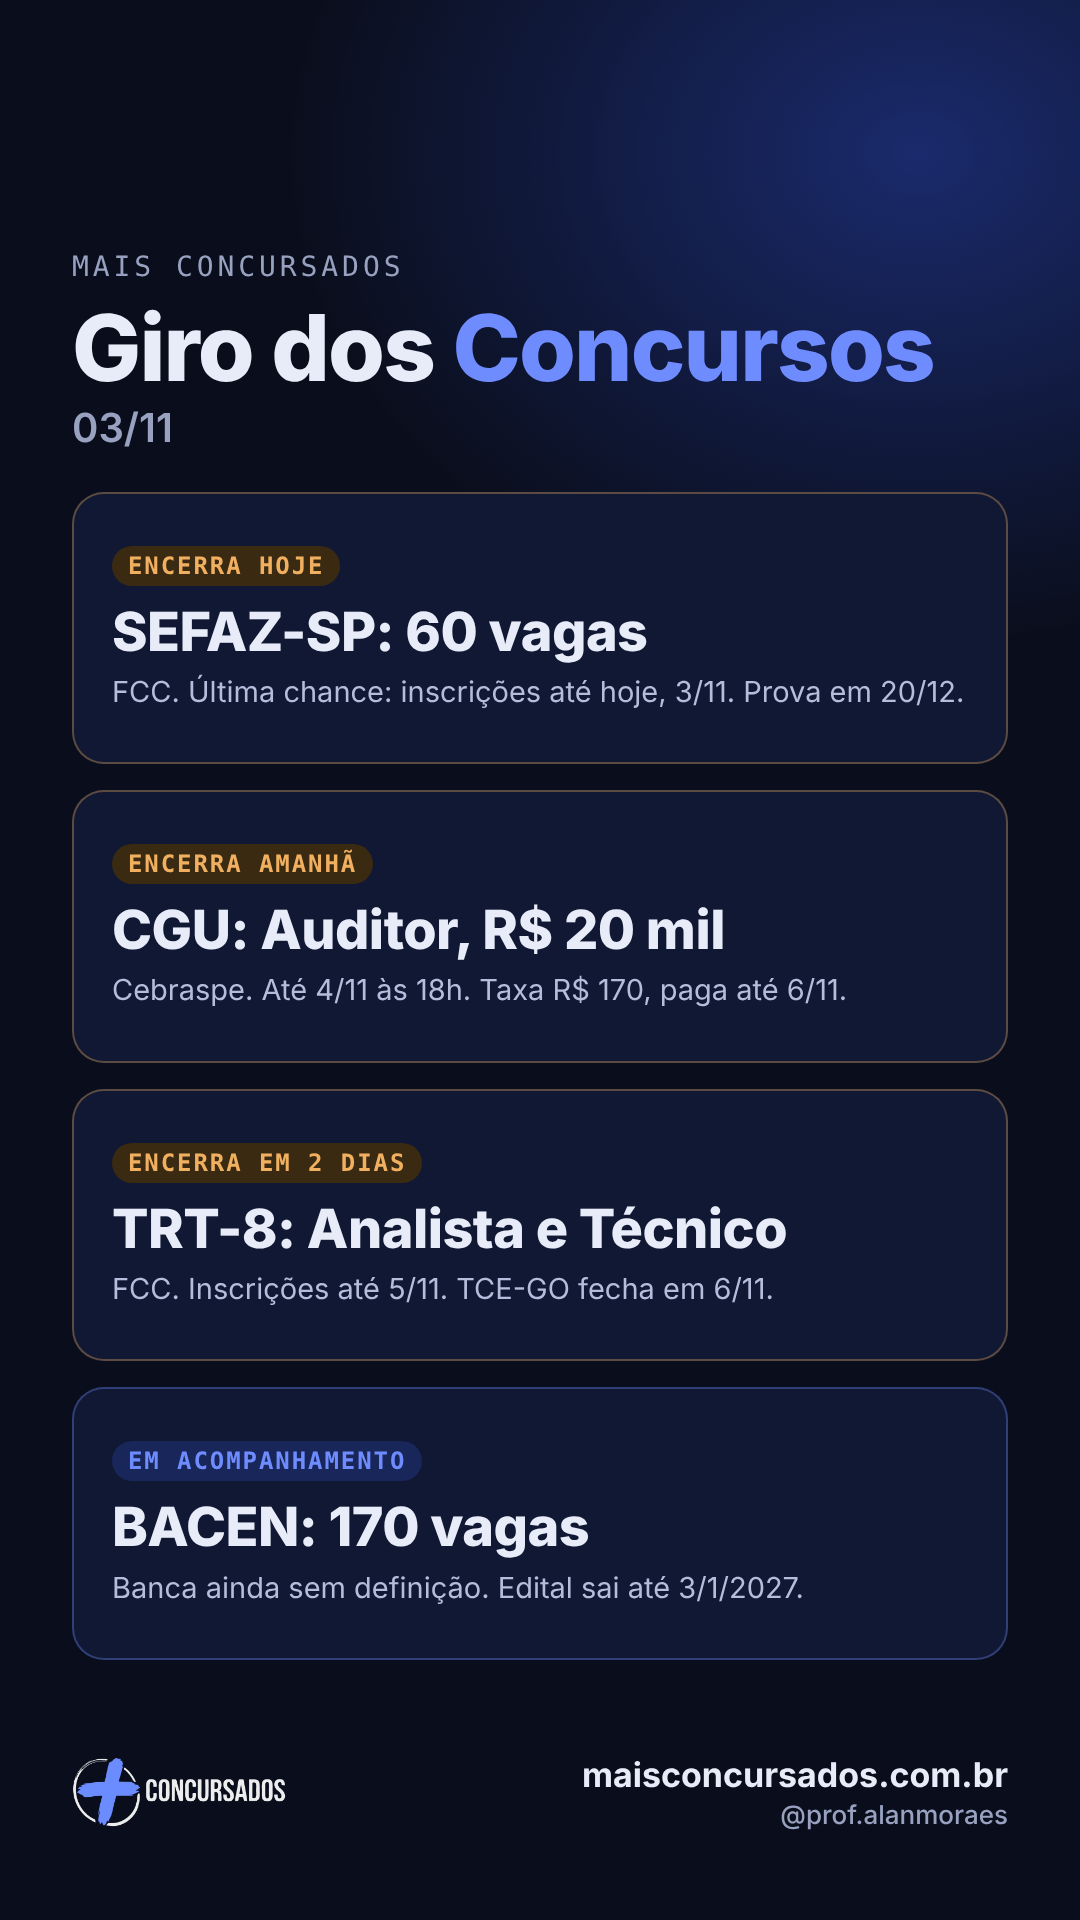
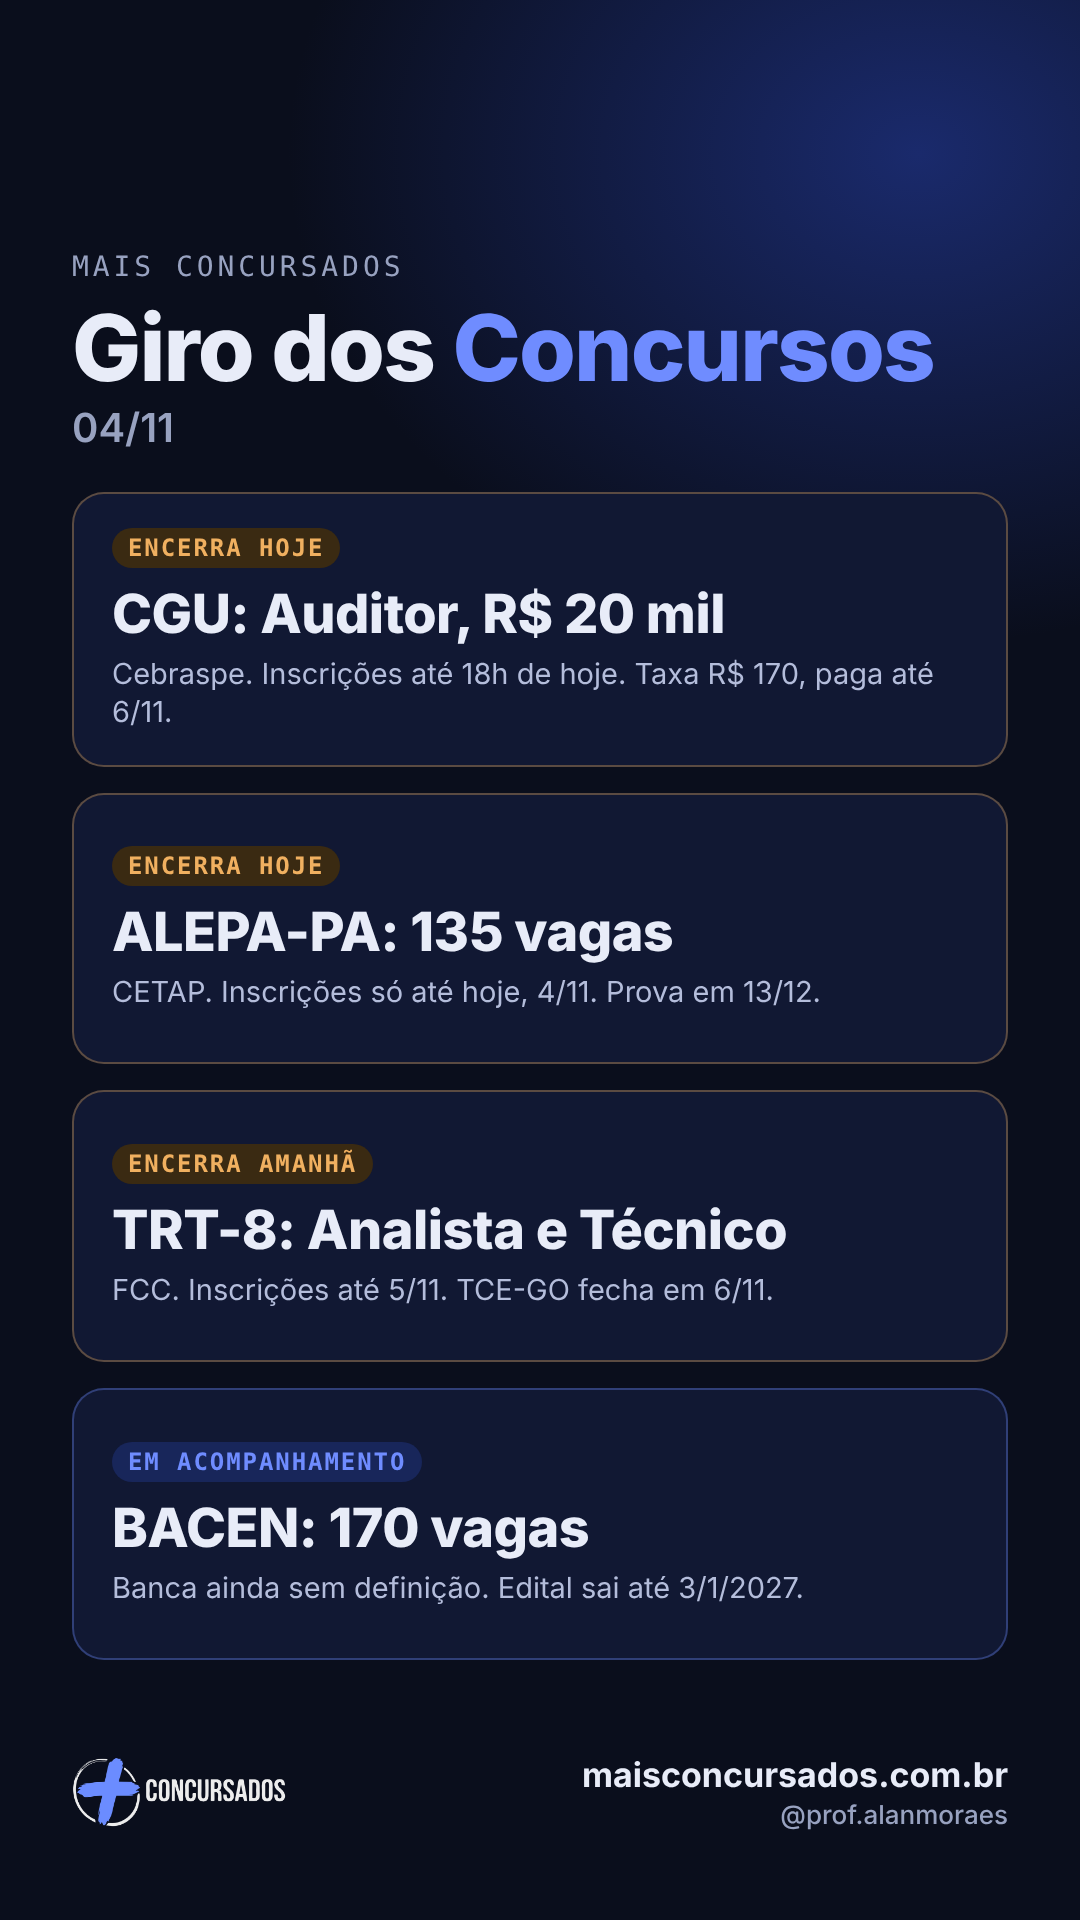
Giro dos Concursos 04/11: ALEPA encerra hoje, SEFAZ-SP encerrado e arte de stories
Claude-Session: https://claude.ai/code/session_01A4P6MbHdyeBPBzuRpzLNG9

diff --git a/site/editais.html b/site/editais.html
@@ -48,7 +48,7 @@
 </main>
 <footer><div class="wrap"><div><h4>Mais Concursados</h4><p>Editais de concursos de todas as áreas, com destaque para os bancários, e estudo com método para quem quer a aprovação. Por Alan Moraes, bancário, professor e mentor para concursos.</p></div><div><h4>Navegue</h4><ul><li><a href="editais.html">Editais</a></li><li><a href="cursos.html">Cursos</a></li><li><a href="blog.html">Blog</a></li><li><a href="mentorias.html">Mentorias</a></li><li><a href="area-do-aluno.html">Área do aluno</a></li></ul></div><div><h4>Institucional</h4><ul><li><a href="sobre.html">Sobre o Alan</a></li><li><a href="contato.html">Contato</a></li><li><a href="privacidade.html">Política de privacidade</a></li></ul></div><p class="legal">© 2026 Mais Concursados · maisconcursados.com.br. As informações de editais vêm de portais de notícias e devem ser conferidas no edital oficial. O Mais Concursados não é banca organizadora nem órgão público.</p></div></footer>
 <script type="application/json" id="editais-data">{
-  "atualizadoEm": "2026-11-03",
+  "atualizadoEm": "2026-11-04",
   "aviso": "Conferido em 13/10/2026 no texto dos editais e em pelo menos duas fontes independentes. Os sites das bancas bloquearam a leitura automática, por isso confirme sempre no edital oficial antes de se inscrever.",
   "editais": [
     {
@@ -487,14 +487,14 @@
       "org": "Sefaz-SP",
       "cargo": "Analista em Planejamento, Orçamento e Finanças Públicas",
       "area": "fiscal",
-      "status": "aberto",
+      "status": "encerrado",
       "banca": "FCC",
       "vagas": 60,
       "vagasTexto": "60 (20 Orçamento e Finanças, 20 Contabilidade, 20 Ciência de Dados e TI)",
       "salario": "R$ 11.359,50",
       "inscricoesAte": "2026-11-03",
       "previsao": "",
-      "obs": "Edital publicado em outubro. Inscrições de 05/10 a 03/11/2026. Prova em 20/12/2026 em São Paulo (adiada de 13/12, conforme Edital nº 02/2026). Taxa R$ 150. Exige nível superior.",
+      "obs": "Edital publicado em outubro. Inscrições de 05/10 a 03/11/2026. Prova em 20/12/2026 em São Paulo (adiada de 13/12, conforme Edital nº 02/2026). Taxa R$ 150. Exige nível superior. Inscrições encerradas em 03/11/2026.",
       "validado": true,
       "fontes": [
         {
@@ -518,7 +518,7 @@
           "url": "https://www.concursosfcc.com.br"
         }
       ],
-      "conferidoEm": "2026-11-03"
+      "conferidoEm": "2026-11-04"
     },
     {
       "id": "cgu-auditor",
@@ -672,6 +672,31 @@
         }
       ],
       "conferidoEm": "2026-11-01"
+    },
+    {
+      "id": "alepa",
+      "org": "ALEPA (Assembleia Legislativa do Pará)",
+      "cargo": "Cargos de nível médio, superior e Procurador",
+      "area": "outros",
+      "status": "aberto",
+      "banca": "Fundação CETAP",
+      "vagas": 135,
+      "vagasTexto": "135 (17 de nível médio e 118 de nível superior, 5 de Procurador)",
+      "salario": "Vencimento-base de R$ 2.295,22 a R$ 3.697,73; com gratificações, de R$ 4.131,40 a R$ 10.353,64",
+      "inscricoesAte": "2026-11-04",
+      "obs": "Inscrições de 01/10 a 04/11/2026, somente pelo site da Fundação CETAP (cadastro até 04/11; boleto pode ser pago até 05/11). Taxa R$ 98 (nível médio) e R$ 118 (superior e Procurador). Prova objetiva em 13/12/2026, prioritariamente em Belém.",
+      "validado": true,
+      "fontes": [
+        {
+          "nome": "Gran Cursos (encerramento das inscrições)",
+          "url": "https://blog.grancursosonline.com.br/concurso-alepa-encerramento-inscricoes/"
+        },
+        {
+          "nome": "Nova Concursos (edital)",
+          "url": "https://www.novaconcursos.com.br/portal/?p=316150"
+        }
+      ],
+      "conferidoEm": "2026-11-04"
     }
   ]
 }</script>

diff --git a/site/index.html b/site/index.html
@@ -72,7 +72,7 @@
 </main>
 <footer><div class="wrap"><div><h4>Mais Concursados</h4><p>Editais de concursos de todas as áreas, com destaque para os bancários, e estudo com método para quem quer a aprovação. Por Alan Moraes, bancário, professor e mentor para concursos.</p></div><div><h4>Navegue</h4><ul><li><a href="editais.html">Editais</a></li><li><a href="cursos.html">Cursos</a></li><li><a href="blog.html">Blog</a></li><li><a href="mentorias.html">Mentorias</a></li><li><a href="area-do-aluno.html">Área do aluno</a></li></ul></div><div><h4>Institucional</h4><ul><li><a href="sobre.html">Sobre o Alan</a></li><li><a href="contato.html">Contato</a></li><li><a href="privacidade.html">Política de privacidade</a></li></ul></div><p class="legal">© 2026 Mais Concursados · maisconcursados.com.br. As informações de editais vêm de portais de notícias e devem ser conferidas no edital oficial. O Mais Concursados não é banca organizadora nem órgão público.</p></div></footer>
 <script type="application/json" id="editais-data">{
-  "atualizadoEm": "2026-11-03",
+  "atualizadoEm": "2026-11-04",
   "aviso": "Conferido em 13/10/2026 no texto dos editais e em pelo menos duas fontes independentes. Os sites das bancas bloquearam a leitura automática, por isso confirme sempre no edital oficial antes de se inscrever.",
   "editais": [
     {
@@ -511,14 +511,14 @@
       "org": "Sefaz-SP",
       "cargo": "Analista em Planejamento, Orçamento e Finanças Públicas",
       "area": "fiscal",
-      "status": "aberto",
+      "status": "encerrado",
       "banca": "FCC",
       "vagas": 60,
       "vagasTexto": "60 (20 Orçamento e Finanças, 20 Contabilidade, 20 Ciência de Dados e TI)",
       "salario": "R$ 11.359,50",
       "inscricoesAte": "2026-11-03",
       "previsao": "",
-      "obs": "Edital publicado em outubro. Inscrições de 05/10 a 03/11/2026. Prova em 20/12/2026 em São Paulo (adiada de 13/12, conforme Edital nº 02/2026). Taxa R$ 150. Exige nível superior.",
+      "obs": "Edital publicado em outubro. Inscrições de 05/10 a 03/11/2026. Prova em 20/12/2026 em São Paulo (adiada de 13/12, conforme Edital nº 02/2026). Taxa R$ 150. Exige nível superior. Inscrições encerradas em 03/11/2026.",
       "validado": true,
       "fontes": [
         {
@@ -542,7 +542,7 @@
           "url": "https://www.concursosfcc.com.br"
         }
       ],
-      "conferidoEm": "2026-11-03"
+      "conferidoEm": "2026-11-04"
     },
     {
       "id": "cgu-auditor",
@@ -696,6 +696,31 @@
         }
       ],
       "conferidoEm": "2026-11-01"
+    },
+    {
+      "id": "alepa",
+      "org": "ALEPA (Assembleia Legislativa do Pará)",
+      "cargo": "Cargos de nível médio, superior e Procurador",
+      "area": "outros",
+      "status": "aberto",
+      "banca": "Fundação CETAP",
+      "vagas": 135,
+      "vagasTexto": "135 (17 de nível médio e 118 de nível superior, 5 de Procurador)",
+      "salario": "Vencimento-base de R$ 2.295,22 a R$ 3.697,73; com gratificações, de R$ 4.131,40 a R$ 10.353,64",
+      "inscricoesAte": "2026-11-04",
+      "obs": "Inscrições de 01/10 a 04/11/2026, somente pelo site da Fundação CETAP (cadastro até 04/11; boleto pode ser pago até 05/11). Taxa R$ 98 (nível médio) e R$ 118 (superior e Procurador). Prova objetiva em 13/12/2026, prioritariamente em Belém.",
+      "validado": true,
+      "fontes": [
+        {
+          "nome": "Gran Cursos (encerramento das inscrições)",
+          "url": "https://blog.grancursosonline.com.br/concurso-alepa-encerramento-inscricoes/"
+        },
+        {
+          "nome": "Nova Concursos (edital)",
+          "url": "https://www.novaconcursos.com.br/portal/?p=316150"
+        }
+      ],
+      "conferidoEm": "2026-11-04"
     }
   ]
 }</script>
